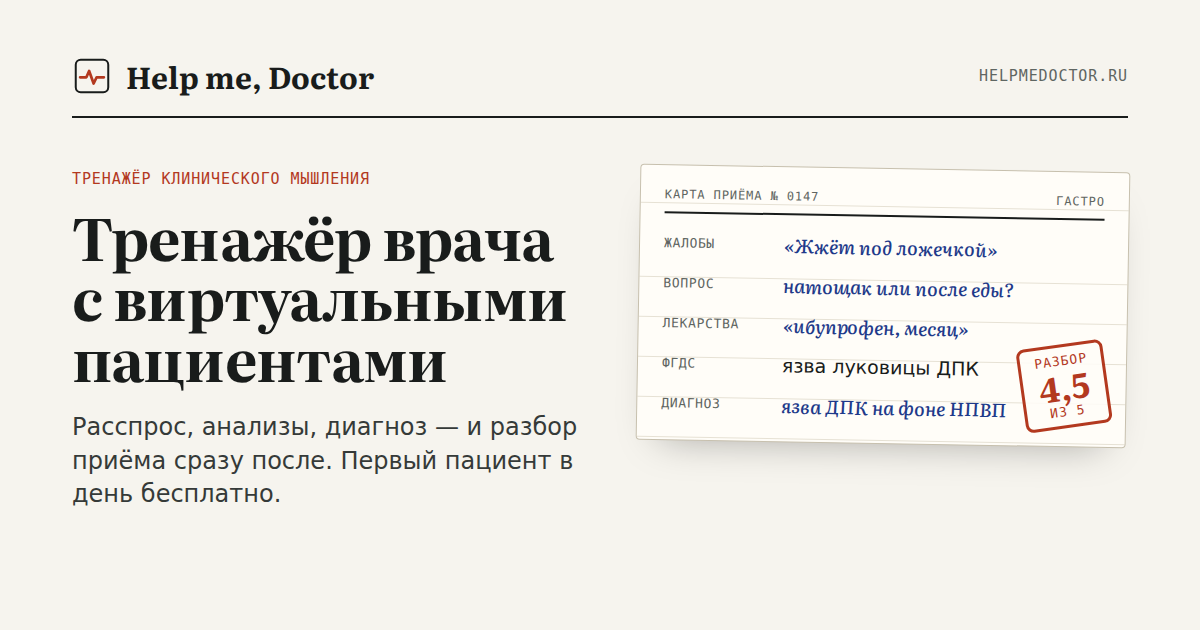
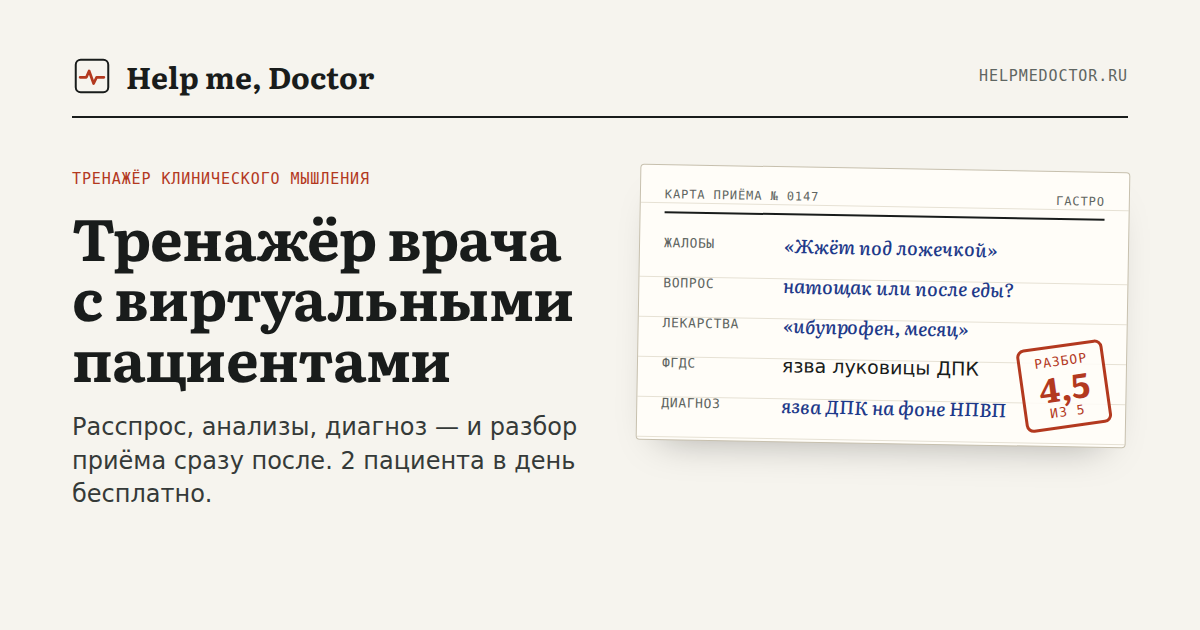
Сайт: «2 пациента в день — бесплатно» вместо «первый пациент каждый день»
Так в настройках тренажёра (FREE_DAILY_LIMIT = 2). Липкая кнопка, блок в конце
статей и превью для соцсетей; страницы пересобраны (npm run site), og.png —
build-images --og.

Claude-Session: https://claude.ai/code/session_01LMDHfoBRJYDPabr8a2smuz

Changed region(s): [[0.0617, 0.3317, 0.4933, 0.6032], [0.0617, 0.754, 0.2467, 0.8143], [0.2775, 0.7238, 0.4933, 0.754]]

diff --git a/public/blog/situacionnye-zadachi-po-terapii/index.html b/public/blog/situacionnye-zadachi-po-terapii/index.html
@@ -165,7 +165,7 @@
   <aside class="cta-box">
     <p class="cta-h">Потренируйтесь на виртуальном пациенте</p>
     <ul><li>расспрос текстом или голосом — пациент отвечает только на заданное</li><li>анализы, УЗИ, ЭКГ, эндоскопия — результаты под скрытый диагноз</li><li>ИИ-разбор и тест по вашим ошибкам</li></ul>
-    <p>Первый пациент каждый день — бесплатно. Вход через Яндекс, Google или Telegram.</p>
+    <p>2 пациента в день — бесплатно. Вход через Яндекс, Google или Telegram.</p>
     <div class="cta" style="margin:0"><a class="btn btn-primary btn-lg" href="/app?from=b_situacionnye-zadachi-po-terapii_end">Принять пациента <span class="arr" aria-hidden="true">→</span></a><a class="btn btn-ghost btn-lg" href="/demo/">Демо за минуту</a></div>
   </aside>
 </article>
@@ -207,7 +207,7 @@
     <span><a href="/oferta/">Публичная оферта</a> · <a href="/privacy/">Политика конфиденциальности</a> · <a href="/partner-oferta/">Партнёрское соглашение</a></span>
   </div>
 </div></footer>
-<div class="sticky-cta" role="complementary" aria-label="Быстрый старт"><p data-sticky-text>Первый пациент каждый день — бесплатно, без карты</p><a class="btn btn-primary" href="/app?from=sticky_b_situacionnye-zadachi-po-terapii" data-sticky-btn>Принять пациента <span class="arr" aria-hidden="true">→</span></a></div>
+<div class="sticky-cta" role="complementary" aria-label="Быстрый старт"><p data-sticky-text>2 пациента в день — бесплатно, без карты</p><a class="btn btn-primary" href="/app?from=sticky_b_situacionnye-zadachi-po-terapii" data-sticky-btn>Принять пациента <span class="arr" aria-hidden="true">→</span></a></div>
 <dialog class="pop" aria-labelledby="pop-t"><div class="pop-in">
   <button class="pop-x" type="button" data-close aria-label="Закрыть">×</button>
   <p class="mono">Бесплатно · PDF · 2 страницы</p>

diff --git a/public/blog/biohimiya-krovi-rasshifrovka/index.html b/public/blog/biohimiya-krovi-rasshifrovka/index.html
@@ -151,7 +151,7 @@
   <aside class="cta-box">
     <p class="cta-h">Потренируйтесь на виртуальном пациенте</p>
     <ul><li>расспрос текстом или голосом — пациент отвечает только на заданное</li><li>анализы, УЗИ, ЭКГ, эндоскопия — результаты под скрытый диагноз</li><li>ИИ-разбор и тест по вашим ошибкам</li></ul>
-    <p>Первый пациент каждый день — бесплатно. Вход через Яндекс, Google или Telegram.</p>
+    <p>2 пациента в день — бесплатно. Вход через Яндекс, Google или Telegram.</p>
     <div class="cta" style="margin:0"><a class="btn btn-primary btn-lg" href="/app?from=b_biohimiya-krovi-rasshifrovka_end">Принять пациента <span class="arr" aria-hidden="true">→</span></a><a class="btn btn-ghost btn-lg" href="/demo/">Демо за минуту</a></div>
   </aside>
 </article>
@@ -193,7 +193,7 @@
     <span><a href="/oferta/">Публичная оферта</a> · <a href="/privacy/">Политика конфиденциальности</a> · <a href="/partner-oferta/">Партнёрское соглашение</a></span>
   </div>
 </div></footer>
-<div class="sticky-cta" role="complementary" aria-label="Быстрый старт"><p data-sticky-text>Первый пациент каждый день — бесплатно, без карты</p><a class="btn btn-primary" href="/app?from=sticky_b_biohimiya-krovi-rasshifrovka" data-sticky-btn>Принять пациента <span class="arr" aria-hidden="true">→</span></a></div>
+<div class="sticky-cta" role="complementary" aria-label="Быстрый старт"><p data-sticky-text>2 пациента в день — бесплатно, без карты</p><a class="btn btn-primary" href="/app?from=sticky_b_biohimiya-krovi-rasshifrovka" data-sticky-btn>Принять пациента <span class="arr" aria-hidden="true">→</span></a></div>
 <dialog class="pop" aria-labelledby="pop-t"><div class="pop-in">
   <button class="pop-x" type="button" data-close aria-label="Закрыть">×</button>
   <p class="mono">Бесплатно · PDF · 2 страницы</p>

diff --git a/public/blog/koagulogramma-rasshifrovka/index.html b/public/blog/koagulogramma-rasshifrovka/index.html
@@ -147,7 +147,7 @@
   <aside class="cta-box">
     <p class="cta-h">Потренируйтесь на виртуальном пациенте</p>
     <ul><li>расспрос текстом или голосом — пациент отвечает только на заданное</li><li>анализы, УЗИ, ЭКГ, эндоскопия — результаты под скрытый диагноз</li><li>ИИ-разбор и тест по вашим ошибкам</li></ul>
-    <p>Первый пациент каждый день — бесплатно. Вход через Яндекс, Google или Telegram.</p>
+    <p>2 пациента в день — бесплатно. Вход через Яндекс, Google или Telegram.</p>
     <div class="cta" style="margin:0"><a class="btn btn-primary btn-lg" href="/app?from=b_koagulogramma-rasshifrovka_end">Принять пациента <span class="arr" aria-hidden="true">→</span></a><a class="btn btn-ghost btn-lg" href="/demo/">Демо за минуту</a></div>
   </aside>
 </article>
@@ -189,7 +189,7 @@
     <span><a href="/oferta/">Публичная оферта</a> · <a href="/privacy/">Политика конфиденциальности</a> · <a href="/partner-oferta/">Партнёрское соглашение</a></span>
   </div>
 </div></footer>
-<div class="sticky-cta" role="complementary" aria-label="Быстрый старт"><p data-sticky-text>Первый пациент каждый день — бесплатно, без карты</p><a class="btn btn-primary" href="/app?from=sticky_b_koagulogramma-rasshifrovka" data-sticky-btn>Принять пациента <span class="arr" aria-hidden="true">→</span></a></div>
+<div class="sticky-cta" role="complementary" aria-label="Быстрый старт"><p data-sticky-text>2 пациента в день — бесплатно, без карты</p><a class="btn btn-primary" href="/app?from=sticky_b_koagulogramma-rasshifrovka" data-sticky-btn>Принять пациента <span class="arr" aria-hidden="true">→</span></a></div>
 <dialog class="pop" aria-labelledby="pop-t"><div class="pop-in">
   <button class="pop-x" type="button" data-close aria-label="Закрыть">×</button>
   <p class="mono">Бесплатно · PDF · 2 страницы</p>

diff --git a/public/blog/kak-chitat-rentgen-legkih/index.html b/public/blog/kak-chitat-rentgen-legkih/index.html
@@ -139,7 +139,7 @@
   <aside class="cta-box">
     <p class="cta-h">Потренируйтесь на виртуальном пациенте</p>
     <ul><li>расспрос текстом или голосом — пациент отвечает только на заданное</li><li>анализы, УЗИ, ЭКГ, эндоскопия — результаты под скрытый диагноз</li><li>ИИ-разбор и тест по вашим ошибкам</li></ul>
-    <p>Первый пациент каждый день — бесплатно. Вход через Яндекс, Google или Telegram.</p>
+    <p>2 пациента в день — бесплатно. Вход через Яндекс, Google или Telegram.</p>
     <div class="cta" style="margin:0"><a class="btn btn-primary btn-lg" href="/app?from=b_kak-chitat-rentgen-legkih_end">Принять пациента <span class="arr" aria-hidden="true">→</span></a><a class="btn btn-ghost btn-lg" href="/demo/">Демо за минуту</a></div>
   </aside>
 </article>
@@ -181,7 +181,7 @@
     <span><a href="/oferta/">Публичная оферта</a> · <a href="/privacy/">Политика конфиденциальности</a> · <a href="/partner-oferta/">Партнёрское соглашение</a></span>
   </div>
 </div></footer>
-<div class="sticky-cta" role="complementary" aria-label="Быстрый старт"><p data-sticky-text>Первый пациент каждый день — бесплатно, без карты</p><a class="btn btn-primary" href="/app?from=sticky_b_kak-chitat-rentgen-legkih" data-sticky-btn>Принять пациента <span class="arr" aria-hidden="true">→</span></a></div>
+<div class="sticky-cta" role="complementary" aria-label="Быстрый старт"><p data-sticky-text>2 пациента в день — бесплатно, без карты</p><a class="btn btn-primary" href="/app?from=sticky_b_kak-chitat-rentgen-legkih" data-sticky-btn>Принять пациента <span class="arr" aria-hidden="true">→</span></a></div>
 <dialog class="pop" aria-labelledby="pop-t"><div class="pop-in">
   <button class="pop-x" type="button" data-close aria-label="Закрыть">×</button>
   <p class="mono">Бесплатно · PDF · 2 страницы</p>

diff --git a/public/blog/kommunikaciya-s-pacientom/index.html b/public/blog/kommunikaciya-s-pacientom/index.html
@@ -168,7 +168,7 @@
   <aside class="cta-box">
     <p class="cta-h">Потренируйтесь на виртуальном пациенте</p>
     <ul><li>расспрос текстом или голосом — пациент отвечает только на заданное</li><li>анализы, УЗИ, ЭКГ, эндоскопия — результаты под скрытый диагноз</li><li>ИИ-разбор и тест по вашим ошибкам</li></ul>
-    <p>Первый пациент каждый день — бесплатно. Вход через Яндекс, Google или Telegram.</p>
+    <p>2 пациента в день — бесплатно. Вход через Яндекс, Google или Telegram.</p>
     <div class="cta" style="margin:0"><a class="btn btn-primary btn-lg" href="/app?from=b_kommunikaciya-s-pacientom_end">Принять пациента <span class="arr" aria-hidden="true">→</span></a><a class="btn btn-ghost btn-lg" href="/demo/">Демо за минуту</a></div>
   </aside>
 </article>
@@ -210,7 +210,7 @@
     <span><a href="/oferta/">Публичная оферта</a> · <a href="/privacy/">Политика конфиденциальности</a> · <a href="/partner-oferta/">Партнёрское соглашение</a></span>
   </div>
 </div></footer>
-<div class="sticky-cta" role="complementary" aria-label="Быстрый старт"><p data-sticky-text>Первый пациент каждый день — бесплатно, без карты</p><a class="btn btn-primary" href="/app?from=sticky_b_kommunikaciya-s-pacientom" data-sticky-btn>Принять пациента <span class="arr" aria-hidden="true">→</span></a></div>
+<div class="sticky-cta" role="complementary" aria-label="Быстрый старт"><p data-sticky-text>2 пациента в день — бесплатно, без карты</p><a class="btn btn-primary" href="/app?from=sticky_b_kommunikaciya-s-pacientom" data-sticky-btn>Принять пациента <span class="arr" aria-hidden="true">→</span></a></div>
 <dialog class="pop" aria-labelledby="pop-t"><div class="pop-in">
   <button class="pop-x" type="button" data-close aria-label="Закрыть">×</button>
   <p class="mono">Бесплатно · PDF · 2 страницы</p>

diff --git a/public/blog/lipidogramma-rasshifrovka/index.html b/public/blog/lipidogramma-rasshifrovka/index.html
@@ -160,7 +160,7 @@
   <aside class="cta-box">
     <p class="cta-h">Потренируйтесь на виртуальном пациенте</p>
     <ul><li>расспрос текстом или голосом — пациент отвечает только на заданное</li><li>анализы, УЗИ, ЭКГ, эндоскопия — результаты под скрытый диагноз</li><li>ИИ-разбор и тест по вашим ошибкам</li></ul>
-    <p>Первый пациент каждый день — бесплатно. Вход через Яндекс, Google или Telegram.</p>
+    <p>2 пациента в день — бесплатно. Вход через Яндекс, Google или Telegram.</p>
     <div class="cta" style="margin:0"><a class="btn btn-primary btn-lg" href="/app?from=b_lipidogramma-rasshifrovka_end">Принять пациента <span class="arr" aria-hidden="true">→</span></a><a class="btn btn-ghost btn-lg" href="/demo/">Демо за минуту</a></div>
   </aside>
 </article>
@@ -202,7 +202,7 @@
     <span><a href="/oferta/">Публичная оферта</a> · <a href="/privacy/">Политика конфиденциальности</a> · <a href="/partner-oferta/">Партнёрское соглашение</a></span>
   </div>
 </div></footer>
-<div class="sticky-cta" role="complementary" aria-label="Быстрый старт"><p data-sticky-text>Первый пациент каждый день — бесплатно, без карты</p><a class="btn btn-primary" href="/app?from=sticky_b_lipidogramma-rasshifrovka" data-sticky-btn>Принять пациента <span class="arr" aria-hidden="true">→</span></a></div>
+<div class="sticky-cta" role="complementary" aria-label="Быстрый старт"><p data-sticky-text>2 пациента в день — бесплатно, без карты</p><a class="btn btn-primary" href="/app?from=sticky_b_lipidogramma-rasshifrovka" data-sticky-btn>Принять пациента <span class="arr" aria-hidden="true">→</span></a></div>
 <dialog class="pop" aria-labelledby="pop-t"><div class="pop-in">
   <button class="pop-x" type="button" data-close aria-label="Закрыть">×</button>
   <p class="mono">Бесплатно · PDF · 2 страницы</p>

diff --git a/public/blog/podgotovka-k-akkreditacii/index.html b/public/blog/podgotovka-k-akkreditacii/index.html
@@ -186,7 +186,7 @@
   <aside class="cta-box">
     <p class="cta-h">Потренируйтесь на виртуальном пациенте</p>
     <ul><li>расспрос текстом или голосом — пациент отвечает только на заданное</li><li>анализы, УЗИ, ЭКГ, эндоскопия — результаты под скрытый диагноз</li><li>ИИ-разбор и тест по вашим ошибкам</li></ul>
-    <p>Первый пациент каждый день — бесплатно. Вход через Яндекс, Google или Telegram.</p>
+    <p>2 пациента в день — бесплатно. Вход через Яндекс, Google или Telegram.</p>
     <div class="cta" style="margin:0"><a class="btn btn-primary btn-lg" href="/app?from=b_podgotovka-k-akkreditacii_end">Принять пациента <span class="arr" aria-hidden="true">→</span></a><a class="btn btn-ghost btn-lg" href="/demo/">Демо за минуту</a></div>
   </aside>
 </article>
@@ -228,7 +228,7 @@
     <span><a href="/oferta/">Публичная оферта</a> · <a href="/privacy/">Политика конфиденциальности</a> · <a href="/partner-oferta/">Партнёрское соглашение</a></span>
   </div>
 </div></footer>
-<div class="sticky-cta" role="complementary" aria-label="Быстрый старт"><p data-sticky-text>Первый пациент каждый день — бесплатно, без карты</p><a class="btn btn-primary" href="/app?from=sticky_b_podgotovka-k-akkreditacii" data-sticky-btn>Принять пациента <span class="arr" aria-hidden="true">→</span></a></div>
+<div class="sticky-cta" role="complementary" aria-label="Быстрый старт"><p data-sticky-text>2 пациента в день — бесплатно, без карты</p><a class="btn btn-primary" href="/app?from=sticky_b_podgotovka-k-akkreditacii" data-sticky-btn>Принять пациента <span class="arr" aria-hidden="true">→</span></a></div>
 <dialog class="pop" aria-labelledby="pop-t"><div class="pop-in">
   <button class="pop-x" type="button" data-close aria-label="Закрыть">×</button>
   <p class="mono">Бесплатно · PDF · 2 страницы</p>

diff --git a/public/blog/spirometriya-rasshifrovka/index.html b/public/blog/spirometriya-rasshifrovka/index.html
@@ -148,7 +148,7 @@
   <aside class="cta-box">
     <p class="cta-h">Потренируйтесь на виртуальном пациенте</p>
     <ul><li>расспрос текстом или голосом — пациент отвечает только на заданное</li><li>анализы, УЗИ, ЭКГ, эндоскопия — результаты под скрытый диагноз</li><li>ИИ-разбор и тест по вашим ошибкам</li></ul>
-    <p>Первый пациент каждый день — бесплатно. Вход через Яндекс, Google или Telegram.</p>
+    <p>2 пациента в день — бесплатно. Вход через Яндекс, Google или Telegram.</p>
     <div class="cta" style="margin:0"><a class="btn btn-primary btn-lg" href="/app?from=b_spirometriya-rasshifrovka_end">Принять пациента <span class="arr" aria-hidden="true">→</span></a><a class="btn btn-ghost btn-lg" href="/demo/">Демо за минуту</a></div>
   </aside>
 </article>
@@ -190,7 +190,7 @@
     <span><a href="/oferta/">Публичная оферта</a> · <a href="/privacy/">Политика конфиденциальности</a> · <a href="/partner-oferta/">Партнёрское соглашение</a></span>
   </div>
 </div></footer>
-<div class="sticky-cta" role="complementary" aria-label="Быстрый старт"><p data-sticky-text>Первый пациент каждый день — бесплатно, без карты</p><a class="btn btn-primary" href="/app?from=sticky_b_spirometriya-rasshifrovka" data-sticky-btn>Принять пациента <span class="arr" aria-hidden="true">→</span></a></div>
+<div class="sticky-cta" role="complementary" aria-label="Быстрый старт"><p data-sticky-text>2 пациента в день — бесплатно, без карты</p><a class="btn btn-primary" href="/app?from=sticky_b_spirometriya-rasshifrovka" data-sticky-btn>Принять пациента <span class="arr" aria-hidden="true">→</span></a></div>
 <dialog class="pop" aria-labelledby="pop-t"><div class="pop-in">
   <button class="pop-x" type="button" data-close aria-label="Закрыть">×</button>
   <p class="mono">Бесплатно · PDF · 2 страницы</p>

diff --git a/public/blog/differencialnyj-diagnoz/index.html b/public/blog/differencialnyj-diagnoz/index.html
@@ -140,7 +140,7 @@
   <aside class="cta-box">
     <p class="cta-h">Потренируйтесь на виртуальном пациенте</p>
     <ul><li>расспрос текстом или голосом — пациент отвечает только на заданное</li><li>анализы, УЗИ, ЭКГ, эндоскопия — результаты под скрытый диагноз</li><li>ИИ-разбор и тест по вашим ошибкам</li></ul>
-    <p>Первый пациент каждый день — бесплатно. Вход через Яндекс, Google или Telegram.</p>
+    <p>2 пациента в день — бесплатно. Вход через Яндекс, Google или Telegram.</p>
     <div class="cta" style="margin:0"><a class="btn btn-primary btn-lg" href="/app?from=b_differencialnyj-diagnoz_end">Принять пациента <span class="arr" aria-hidden="true">→</span></a><a class="btn btn-ghost btn-lg" href="/demo/">Демо за минуту</a></div>
   </aside>
 </article>
@@ -182,7 +182,7 @@
     <span><a href="/oferta/">Публичная оферта</a> · <a href="/privacy/">Политика конфиденциальности</a> · <a href="/partner-oferta/">Партнёрское соглашение</a></span>
   </div>
 </div></footer>
-<div class="sticky-cta" role="complementary" aria-label="Быстрый старт"><p data-sticky-text>Первый пациент каждый день — бесплатно, без карты</p><a class="btn btn-primary" href="/app?from=sticky_b_differencialnyj-diagnoz" data-sticky-btn>Принять пациента <span class="arr" aria-hidden="true">→</span></a></div>
+<div class="sticky-cta" role="complementary" aria-label="Быстрый старт"><p data-sticky-text>2 пациента в день — бесплатно, без карты</p><a class="btn btn-primary" href="/app?from=sticky_b_differencialnyj-diagnoz" data-sticky-btn>Принять пациента <span class="arr" aria-hidden="true">→</span></a></div>
 <dialog class="pop" aria-labelledby="pop-t"><div class="pop-in">
   <button class="pop-x" type="button" data-close aria-label="Закрыть">×</button>
   <p class="mono">Бесплатно · PDF · 2 страницы</p>

diff --git a/public/blog/gazy-krovi-rasshifrovka/index.html b/public/blog/gazy-krovi-rasshifrovka/index.html
@@ -153,7 +153,7 @@
   <aside class="cta-box">
     <p class="cta-h">Потренируйтесь на виртуальном пациенте</p>
     <ul><li>расспрос текстом или голосом — пациент отвечает только на заданное</li><li>анализы, УЗИ, ЭКГ, эндоскопия — результаты под скрытый диагноз</li><li>ИИ-разбор и тест по вашим ошибкам</li></ul>
-    <p>Первый пациент каждый день — бесплатно. Вход через Яндекс, Google или Telegram.</p>
+    <p>2 пациента в день — бесплатно. Вход через Яндекс, Google или Telegram.</p>
     <div class="cta" style="margin:0"><a class="btn btn-primary btn-lg" href="/app?from=b_gazy-krovi-rasshifrovka_end">Принять пациента <span class="arr" aria-hidden="true">→</span></a><a class="btn btn-ghost btn-lg" href="/demo/">Демо за минуту</a></div>
   </aside>
 </article>
@@ -195,7 +195,7 @@
     <span><a href="/oferta/">Публичная оферта</a> · <a href="/privacy/">Политика конфиденциальности</a> · <a href="/partner-oferta/">Партнёрское соглашение</a></span>
   </div>
 </div></footer>
-<div class="sticky-cta" role="complementary" aria-label="Быстрый старт"><p data-sticky-text>Первый пациент каждый день — бесплатно, без карты</p><a class="btn btn-primary" href="/app?from=sticky_b_gazy-krovi-rasshifrovka" data-sticky-btn>Принять пациента <span class="arr" aria-hidden="true">→</span></a></div>
+<div class="sticky-cta" role="complementary" aria-label="Быстрый старт"><p data-sticky-text>2 пациента в день — бесплатно, без карты</p><a class="btn btn-primary" href="/app?from=sticky_b_gazy-krovi-rasshifrovka" data-sticky-btn>Принять пациента <span class="arr" aria-hidden="true">→</span></a></div>
 <dialog class="pop" aria-labelledby="pop-t"><div class="pop-in">
   <button class="pop-x" type="button" data-close aria-label="Закрыть">×</button>
   <p class="mono">Бесплатно · PDF · 2 страницы</p>

diff --git a/public/blog/ttg-norma-rasshifrovka/index.html b/public/blog/ttg-norma-rasshifrovka/index.html
@@ -121,7 +121,7 @@
   <aside class="cta-box">
     <p class="cta-h">Потренируйтесь на виртуальном пациенте</p>
     <ul><li>расспрос текстом или голосом — пациент отвечает только на заданное</li><li>анализы, УЗИ, ЭКГ, эндоскопия — результаты под скрытый диагноз</li><li>ИИ-разбор и тест по вашим ошибкам</li></ul>
-    <p>Первый пациент каждый день — бесплатно. Вход через Яндекс, Google или Telegram.</p>
+    <p>2 пациента в день — бесплатно. Вход через Яндекс, Google или Telegram.</p>
     <div class="cta" style="margin:0"><a class="btn btn-primary btn-lg" href="/app?from=b_ttg-norma-rasshifrovka_end">Принять пациента <span class="arr" aria-hidden="true">→</span></a><a class="btn btn-ghost btn-lg" href="/demo/">Демо за минуту</a></div>
   </aside>
 </article>
@@ -163,7 +163,7 @@
     <span><a href="/oferta/">Публичная оферта</a> · <a href="/privacy/">Политика конфиденциальности</a> · <a href="/partner-oferta/">Партнёрское соглашение</a></span>
   </div>
 </div></footer>
-<div class="sticky-cta" role="complementary" aria-label="Быстрый старт"><p data-sticky-text>Первый пациент каждый день — бесплатно, без карты</p><a class="btn btn-primary" href="/app?from=sticky_b_ttg-norma-rasshifrovka" data-sticky-btn>Принять пациента <span class="arr" aria-hidden="true">→</span></a></div>
+<div class="sticky-cta" role="complementary" aria-label="Быстрый старт"><p data-sticky-text>2 пациента в день — бесплатно, без карты</p><a class="btn btn-primary" href="/app?from=sticky_b_ttg-norma-rasshifrovka" data-sticky-btn>Принять пациента <span class="arr" aria-hidden="true">→</span></a></div>
 <dialog class="pop" aria-labelledby="pop-t"><div class="pop-in">
   <button class="pop-x" type="button" data-close aria-label="Закрыть">×</button>
   <p class="mono">Бесплатно · PDF · 2 страницы</p>

diff --git a/public/blog/obshchij-analiz-krovi/index.html b/public/blog/obshchij-analiz-krovi/index.html
@@ -171,7 +171,7 @@
   <aside class="cta-box">
     <p class="cta-h">Потренируйтесь на виртуальном пациенте</p>
     <ul><li>расспрос текстом или голосом — пациент отвечает только на заданное</li><li>анализы, УЗИ, ЭКГ, эндоскопия — результаты под скрытый диагноз</li><li>ИИ-разбор и тест по вашим ошибкам</li></ul>
-    <p>Первый пациент каждый день — бесплатно. Вход через Яндекс, Google или Telegram.</p>
+    <p>2 пациента в день — бесплатно. Вход через Яндекс, Google или Telegram.</p>
     <div class="cta" style="margin:0"><a class="btn btn-primary btn-lg" href="/app?from=b_obshchij-analiz-krovi_end">Принять пациента <span class="arr" aria-hidden="true">→</span></a><a class="btn btn-ghost btn-lg" href="/demo/">Демо за минуту</a></div>
   </aside>
 </article>
@@ -213,7 +213,7 @@
     <span><a href="/oferta/">Публичная оферта</a> · <a href="/privacy/">Политика конфиденциальности</a> · <a href="/partner-oferta/">Партнёрское соглашение</a></span>
   </div>
 </div></footer>
-<div class="sticky-cta" role="complementary" aria-label="Быстрый старт"><p data-sticky-text>Первый пациент каждый день — бесплатно, без карты</p><a class="btn btn-primary" href="/app?from=sticky_b_obshchij-analiz-krovi" data-sticky-btn>Принять пациента <span class="arr" aria-hidden="true">→</span></a></div>
+<div class="sticky-cta" role="complementary" aria-label="Быстрый старт"><p data-sticky-text>2 пациента в день — бесплатно, без карты</p><a class="btn btn-primary" href="/app?from=sticky_b_obshchij-analiz-krovi" data-sticky-btn>Принять пациента <span class="arr" aria-hidden="true">→</span></a></div>
 <dialog class="pop" aria-labelledby="pop-t"><div class="pop-in">
   <button class="pop-x" type="button" data-close aria-label="Закрыть">×</button>
   <p class="mono">Бесплатно · PDF · 2 страницы</p>
